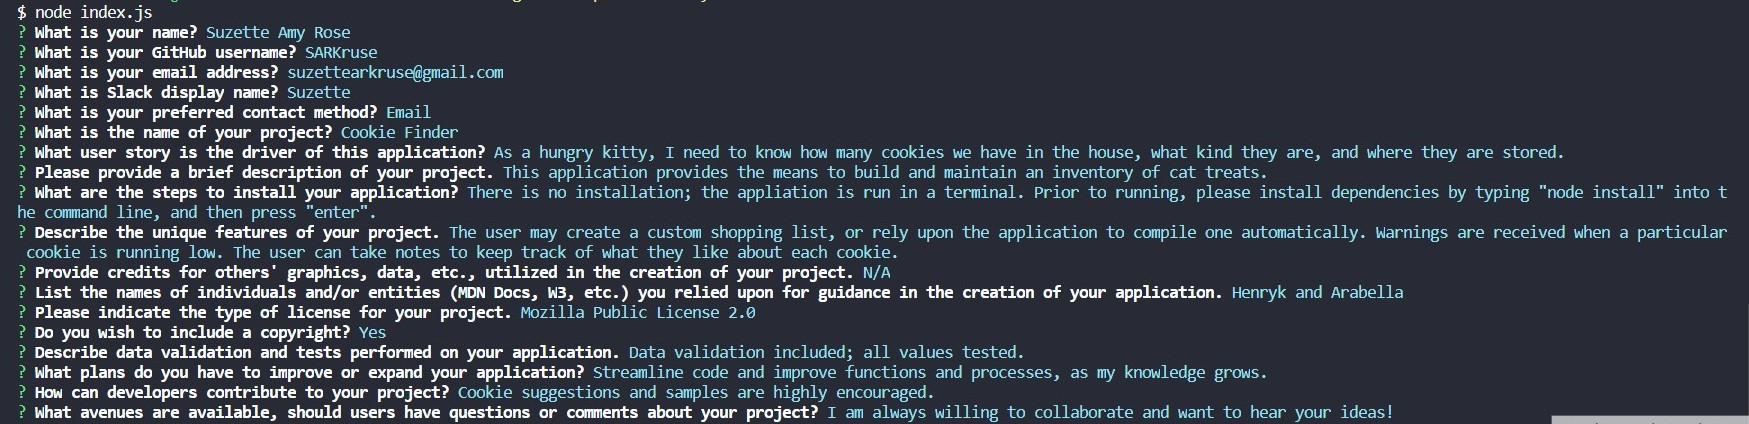
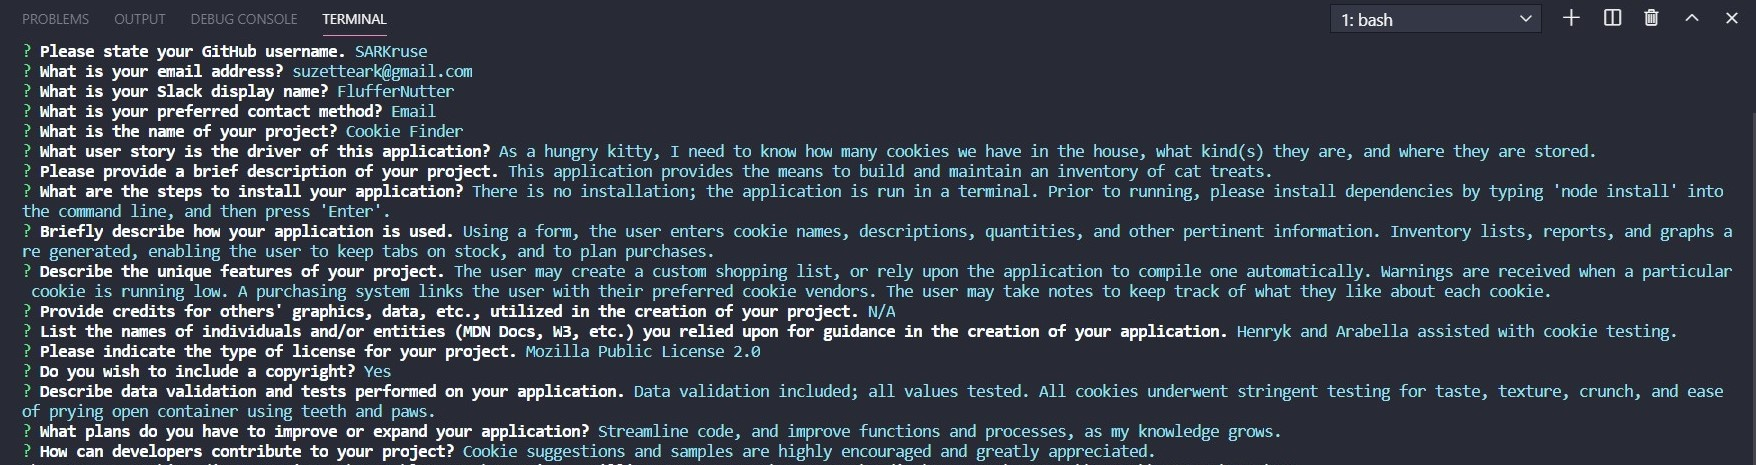
Updated Q&A screenshot; small tweaks to index.js

diff --git a/index.js b/index.js
@@ -1,12 +1,18 @@
-// TODO: Include packages needed for this application
+// A. Variables
+// ********************************************
+// 01. To import required packages
 const fs = require('fs');
 const inquirer = require('inquirer');
 const path = require('path');
 const generateMarkdown = require('./generateMarkdown');
+
+// 02. To hold options when gathering user input
 const contactMethods = ['Email', 'GitHub', 'Slack'];
 const licenseTypes = ['Academic Free License v3.0', 'Apache License 2.0', 'Creative Commons License Family', 'Eclipse Public License 2.0', 'GNU General Public License v3.0', 'MIT', 'Mozilla Public License 2.0', 'The Unilicense', 'None'];
 
-// TODO: Create an array of questions for user input
+// B. Array
+// ********************************************
+// Contains questions to gather user input
 const questions = [
     {
         name: 'name',
@@ -16,7 +22,7 @@ const questions = [
     {
         name: 'gitHubName',
         type: 'input',
-        message: 'What is your GitHub username?'
+        message: 'Please state your GitHub username.'
     },
     {
         name: 'emailAddress',
@@ -26,7 +32,7 @@ const questions = [
     {
         name: 'slackName',
         type: 'input',
-        message: 'What is Slack display name?'
+        message: 'What is your Slack display name?'
     },
     {
         name: 'contactMethod',
@@ -100,15 +106,12 @@ const questions = [
         name: 'contributions',
         type: 'input',
         message: 'How can developers contribute to your project?'
-    },
-    {
-        name: 'feedback',
-        type: 'input',
-        message: 'What avenues are available, should users have questions or comments about your project?'
     }    
 ];
 
-// TODO: Create a function to write README file
+// C. Functions
+// ********************************************
+// 01. Creation of README.md file
 function writeToFile(fileName, data) {
     let currentWorkingDirectory = process.cwd();
     console.log(`The current working directory is: ${currentWorkingDirectory}`);
@@ -119,7 +122,7 @@ function writeToFile(fileName, data) {
     return sourceFiles;
 };
 
-// TODO: Create a function to initialize app
+// 02. Initialization of application
 function init() {
     inquirer.prompt(questions).then((userAnswers) => {
         writeToFile('README.md', generateMarkdown({...userAnswers}));
@@ -127,6 +130,7 @@ function init() {
     });
 };
 
-// Function call to initialize app
+// D. Main Process
+// ********************************************
+// Function call to initialize application
 init();
-
